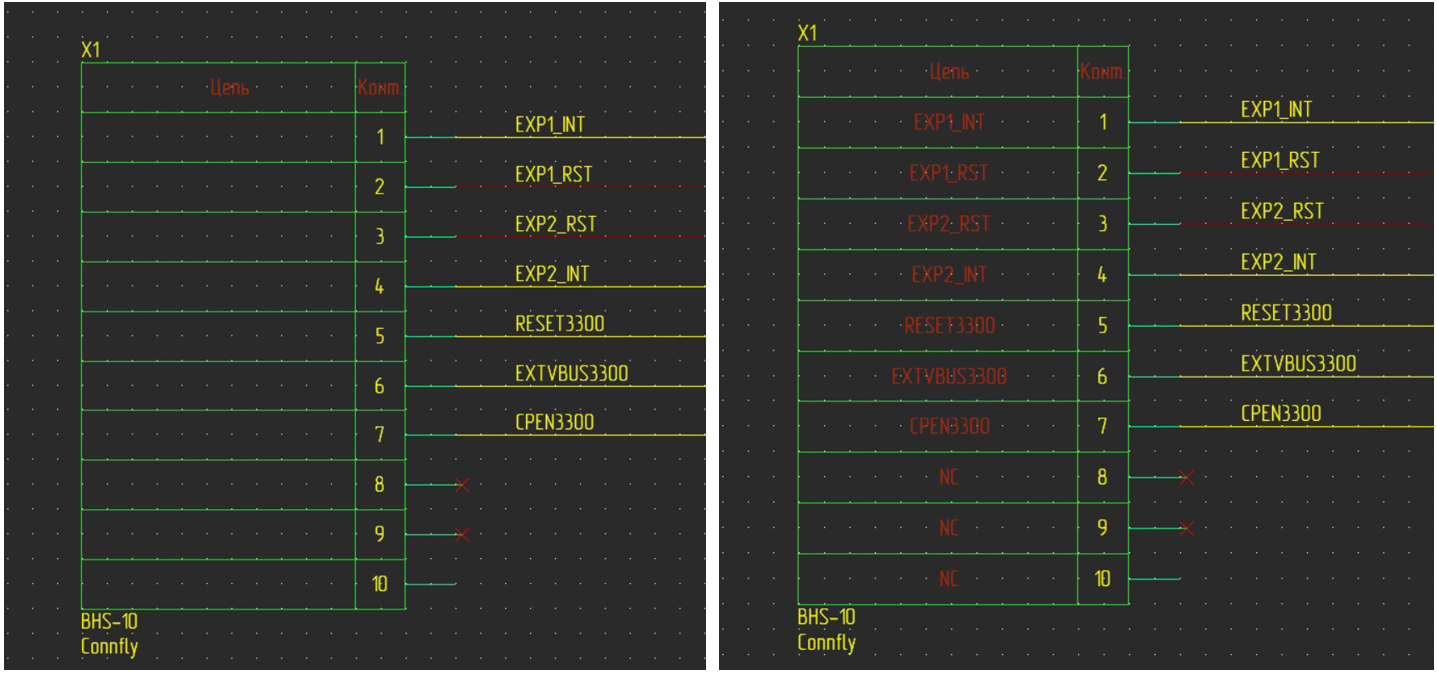
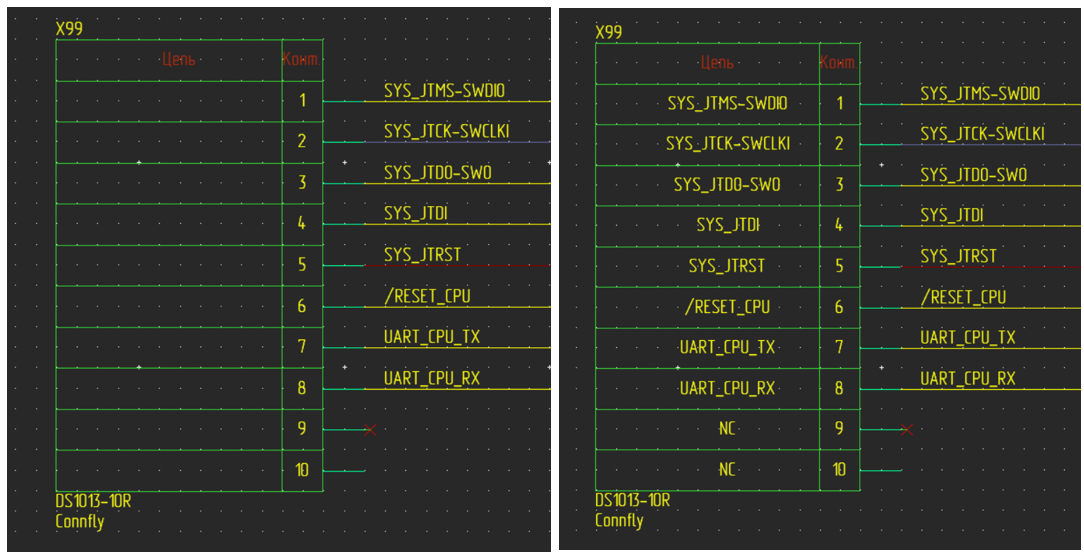
Conn Namer improvement

Changed region(s): [[0.0, 0.0, 1.0, 1.0], [0.9742, 0.9802, 1.0, 1.0]]

diff --git a/ConnNamer/conn_namer_core.js b/ConnNamer/conn_namer_core.js
@@ -16,12 +16,13 @@ var console = OutputLib.createConsole(new OutputLib.MentorDriver("Conn Naming"))
 
 var dd = Application.ActiveView.Query(VDM_COMP, VD_SELECTED);
 
-    console.message("---------Connector naming started---------");
+console.message("---------Connector naming started---------");
 if (dd.count == 0) {
     console.error("No components selected!");
 }
-for (var a = 0; a < dd.Count; a++) {
-    var selectedComp = dd.Item(a + 1);
+
+for (var compCounter = 0; compCounter < dd.Count; compCounter++) {
+    var selectedComp = dd.Item(compCounter + 1);
 
     if (startsWith(selectedComp.RefDes, "X")) {
         var Block = selectedComp.Parent;
@@ -33,7 +34,7 @@ for (var a = 0; a < dd.Count; a++) {
         var segment;
         var point;
         var list = [];
-        
+
         for (var i = 0; i < conns.Count; i++) {
             var isNC = false;
 
@@ -113,28 +114,32 @@ for (var a = 0; a < dd.Count; a++) {
                 var locX = point.X;
                 var locY = point.Y;
 
-                addedText = Block.AddText(isNC ? "NC" : net.LogicalNetName, locX + add, locY);
+                // addedText = Block.AddText(isNC ? "NC" : net.LogicalNetName, locX + add, locY);
+                pin.AddAttribute("PinLabel=" + (isNC ? "NC" : net.LogicalNetName), locX + add, locY, 3);
+
             }
             else {
                 var connW = compUpRight.X - compLowLeft.X;
                 var add = connW - (connW - 40) / 2;
                 if (selectedComp.Orientation != VDORIENT_IDENTITY)
-                    add = -add - 10;
+                    add = -add + 10;
 
                 point = pin.GetLocation();
                 var locX = point.X;
                 var locY = point.Y;
 
-                addedText = Block.AddText("NC", locX + add, locY);
+                // addedText = Block.AddText("NC", locX + add, locY);
+                pin.AddAttribute("PinLabel=NC", locX + add, locY, 3);
             }
 
-            addedText.Origin = VDALIGN_MC;
+            // addedText.Origin = VDALIGN_MC;
+            pin.FindAttribute("PinLabel").Origin = VDALIGN_MC;
         }
 
-        console.success(selectedComp.RefDes + " completely named!");
+        console.success(selectedComp.RefDes + "." + selectedComp.SymbolBlock.GetName(1) + " completely named!");
     }
     else {
-        console.error( selectedComp.UID + " is not connector (RefDes have to be X...)");
+        console.error(selectedComp.UID + " is not connector (RefDes have to be X...)");
     }
 }
 

diff --git a/readme.md b/readme.md
@@ -84,7 +84,7 @@ The Xpedition Designer toolbar contains following scripts:
    ![image_4](images/image_4.png)
 
 >[!IMPORTANT]
->This text is just plain text and it is not part of the connector symbol and is not linked to the nets connected to the connector.
+>The script adds the PinLabel property to each connector pin and writes the net name in its value. If you use the PinLabel property in a different way, you need to change the property name in the script to something else to avoid data loss.
 
 5. **Label Aligner** – This utility aligns the net labels of power and ground symbols (symbols of type Link). To use it, select a symbol and click on the button in the toolbar. For all symbols with the same symbol name, the net labels on the current sheet will be aligned as shown in the image below.
 
